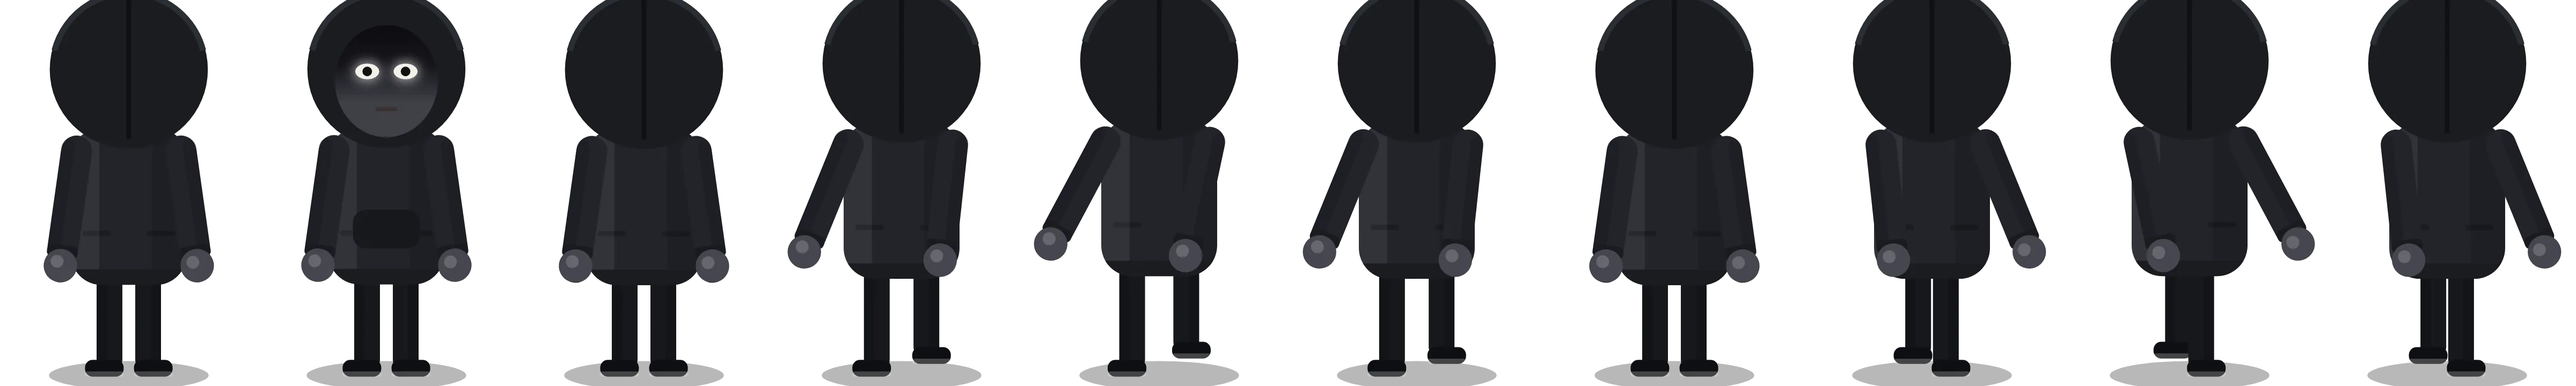
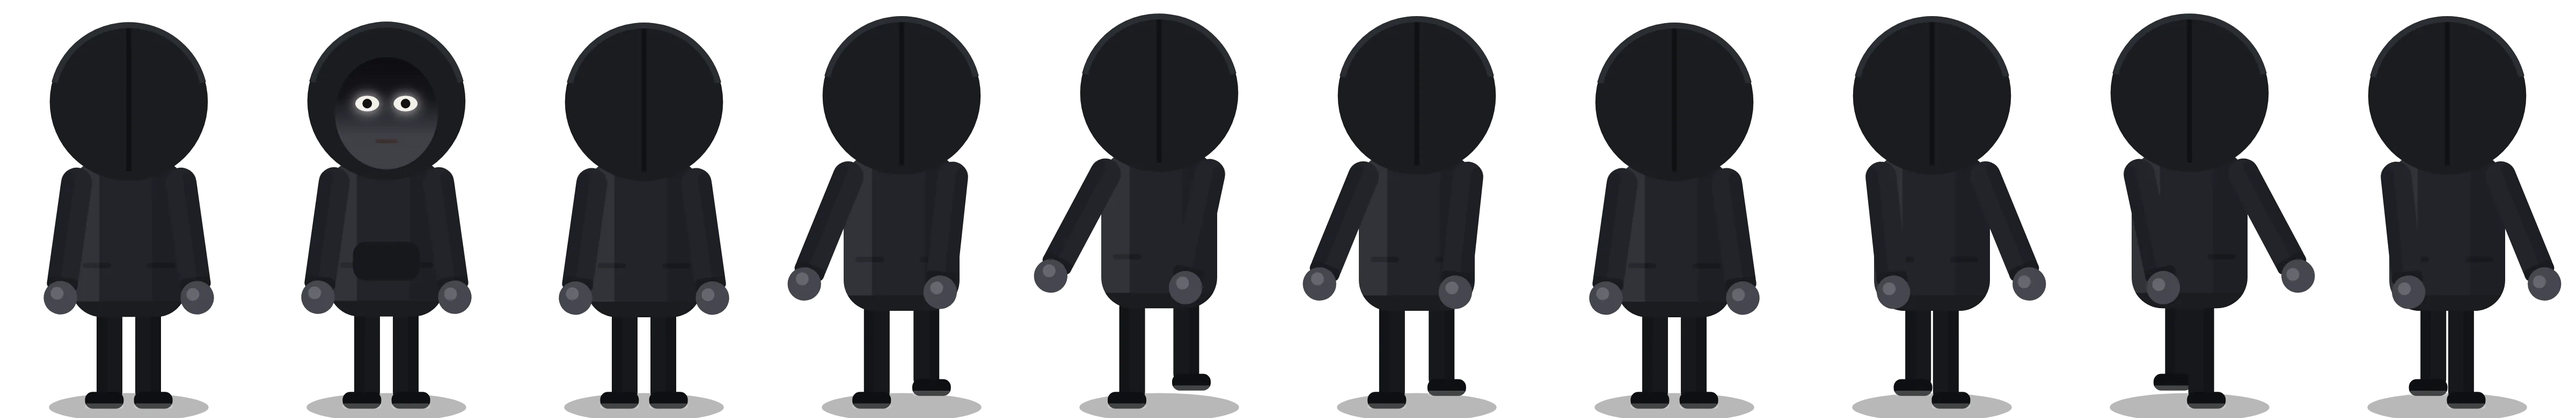
Strona: tablica „Następny odcinek” z migającą ramką, poprawiony obrót Kaptura (tułów zgodnie z głową, cały kaptur w kadrze), bez przybliżania okładek, bez podpisu Kasztanowa, żółty przycisk Graj
Claude-Session: https://claude.ai/code/session_01XA7BeL8A8WqQ6rWtpD99qW

diff --git a/film/promo/promo.html b/film/promo/promo.html
@@ -11,7 +11,7 @@ function kap3d(c, x, y, s, th, hth, glow) {
   const items = [];
   // nogi
   for (const side of [-1, 1]) {
-    const lx = side * 15 * cs, z = -side * 15 * sn, toe = sn * 12;
+    const lx = side * 15 * cs, z = side * 15 * sn, toe = sn * 12;
     items.push({ z: z - 1, f: () => {
       const dk = z < 0 ? -.25 : 0;
       fillRR(c, lx - 10, -86, 20, 82, 8, shade(K.pants, dk));
@@ -21,7 +21,7 @@ function kap3d(c, x, y, s, th, hth, glow) {
   }
   // ręce
   for (const side of [-1, 1]) {
-    const ax = side * 40 * cs, z = -side * 40 * sn, swing = 0.14 * Math.abs(cs) + 0.03;
+    const ax = side * 40 * cs, z = side * 40 * sn, swing = 0.14 * Math.abs(cs) + 0.03;
     items.push({ z, f: () => {
       c.save(); c.translate(ax, -178); c.rotate(-side * Math.sign(cs || 1) * swing);
       const dk = z < -5 ? -.3 : (z > 5 ? .06 : 0);
@@ -97,19 +97,19 @@ window.PROMO = {
   },
   // klatki Kaptura do animacji na stronie: 0 tyłem, 1 przodem (świecące oczy), 2..9 chód tyłem
   kapturSheet() {
-    const FW = 480, FH = 720, c = document.createElement('canvas'); c.width = FW * 10; c.height = FH; const x = c.getContext('2d');
+    const FW = 480, FH = 780, c = document.createElement('canvas'); c.width = FW * 10; c.height = FH; const x = c.getContext('2d');
     const fr = [{ t: 1, back: true }, { t: 1, glow: 1 }];
     for (let k = 0; k < 8; k++) fr.push({ t: 1, back: true, walk: k * Math.PI / 4 });
-    fr.forEach((o, i) => { x.save(); x.beginPath(); x.rect(i * FW, 0, FW, FH); x.clip(); person(x, 'kaptur', i * FW + FW / 2, 700, 2.4, o); x.restore(); });
+    fr.forEach((o, i) => { x.save(); x.beginPath(); x.rect(i * FW, 0, FW, FH); x.clip(); person(x, 'kaptur', i * FW + FW / 2, 760, 2.4, o); x.restore(); });
     return c.toDataURL('image/png').split(',')[1];
   },
   // obrót Kaptura: wiersz 0 = z tyłu na przód, wiersz 1 = z przodu na tył; 24 klatki, głowa wyprzedza ciało
   kapturTurn() {
-    const FW = 480, FH = 720, N = 24, c = document.createElement('canvas'); c.width = FW * N; c.height = FH * 2; const x = c.getContext('2d');
+    const FW = 480, FH = 780, N = 24, c = document.createElement('canvas'); c.width = FW * N; c.height = FH * 2; const x = c.getContext('2d');
     for (let r = 0; r < 2; r++) for (let i = 0; i < N; i++) {
       const q = i / (N - 1), th = r === 0 ? q * Math.PI : (1 - q) * Math.PI;
       const hth = Math.max(0, Math.min(Math.PI, th + (r === 0 ? 1 : -1) * 0.5 * Math.sin(q * Math.PI)));
-      x.save(); x.beginPath(); x.rect(i * FW, r * FH, FW, FH); x.clip(); kap3d(x, i * FW + FW / 2, r * FH + 700, 2.4, th, hth, 1); x.restore();
+      x.save(); x.beginPath(); x.rect(i * FW, r * FH, FW, FH); x.clip(); kap3d(x, i * FW + FW / 2, r * FH + 760, 2.4, th, hth, 1); x.restore();
     }
     return c.toDataURL('image/png').split(',')[1];
   },
